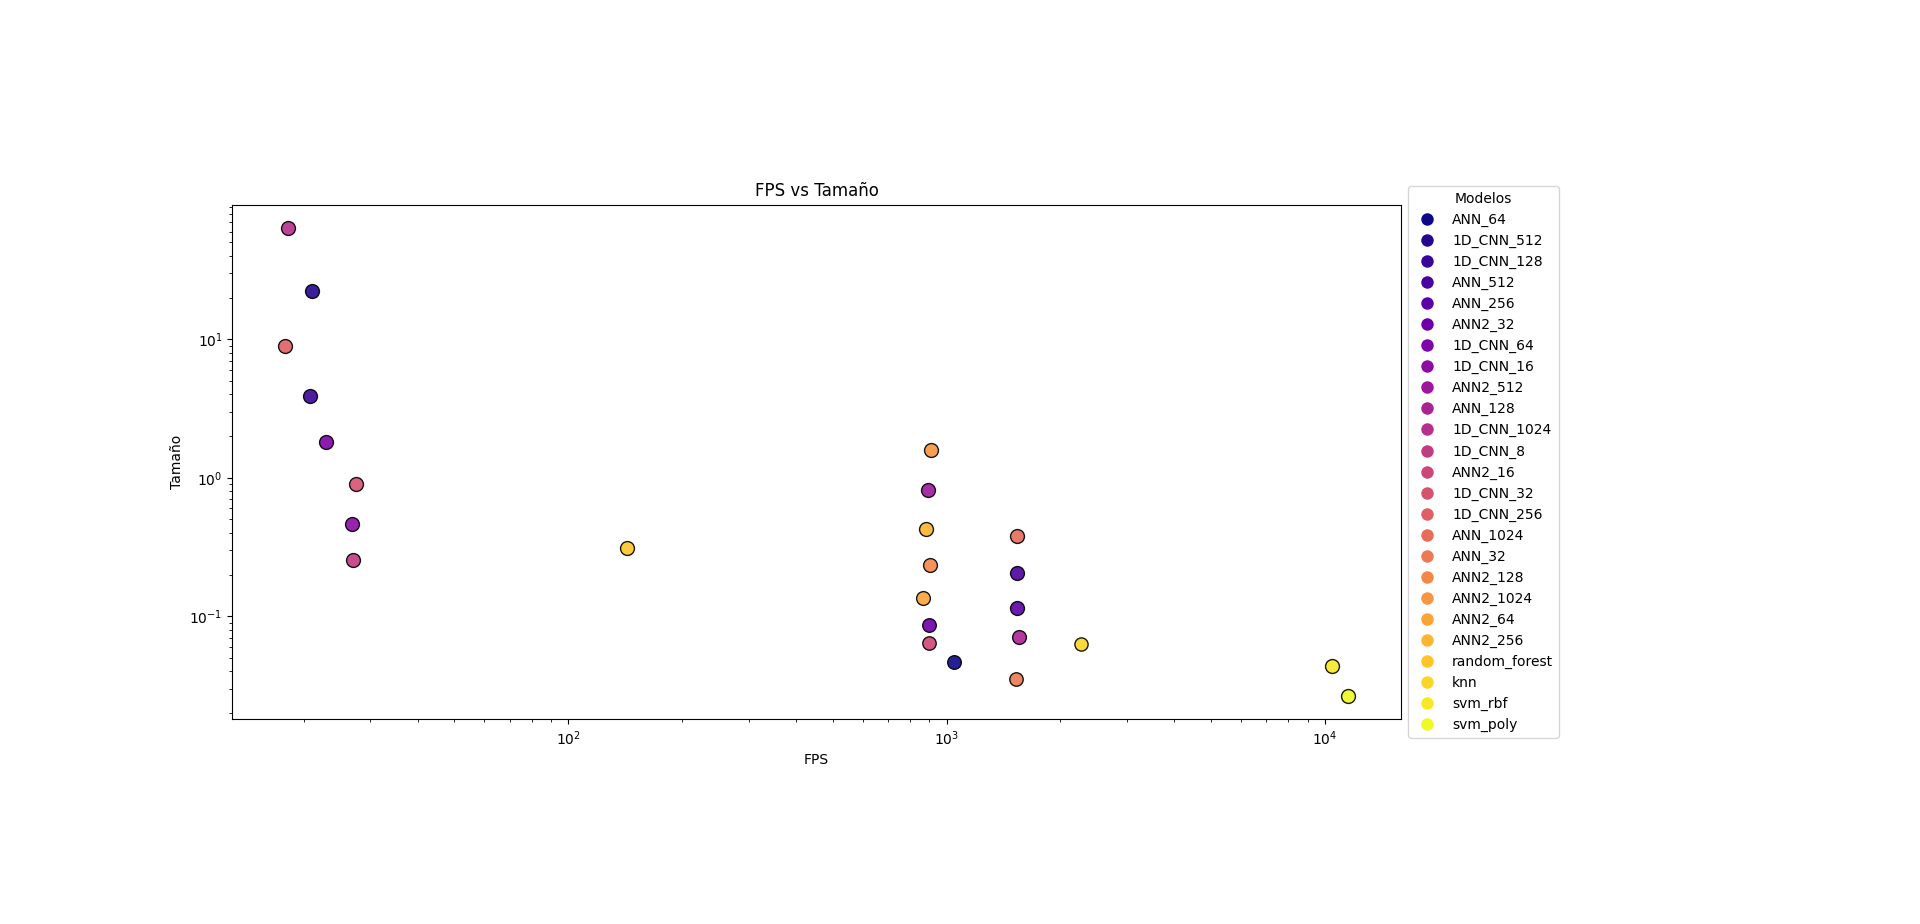
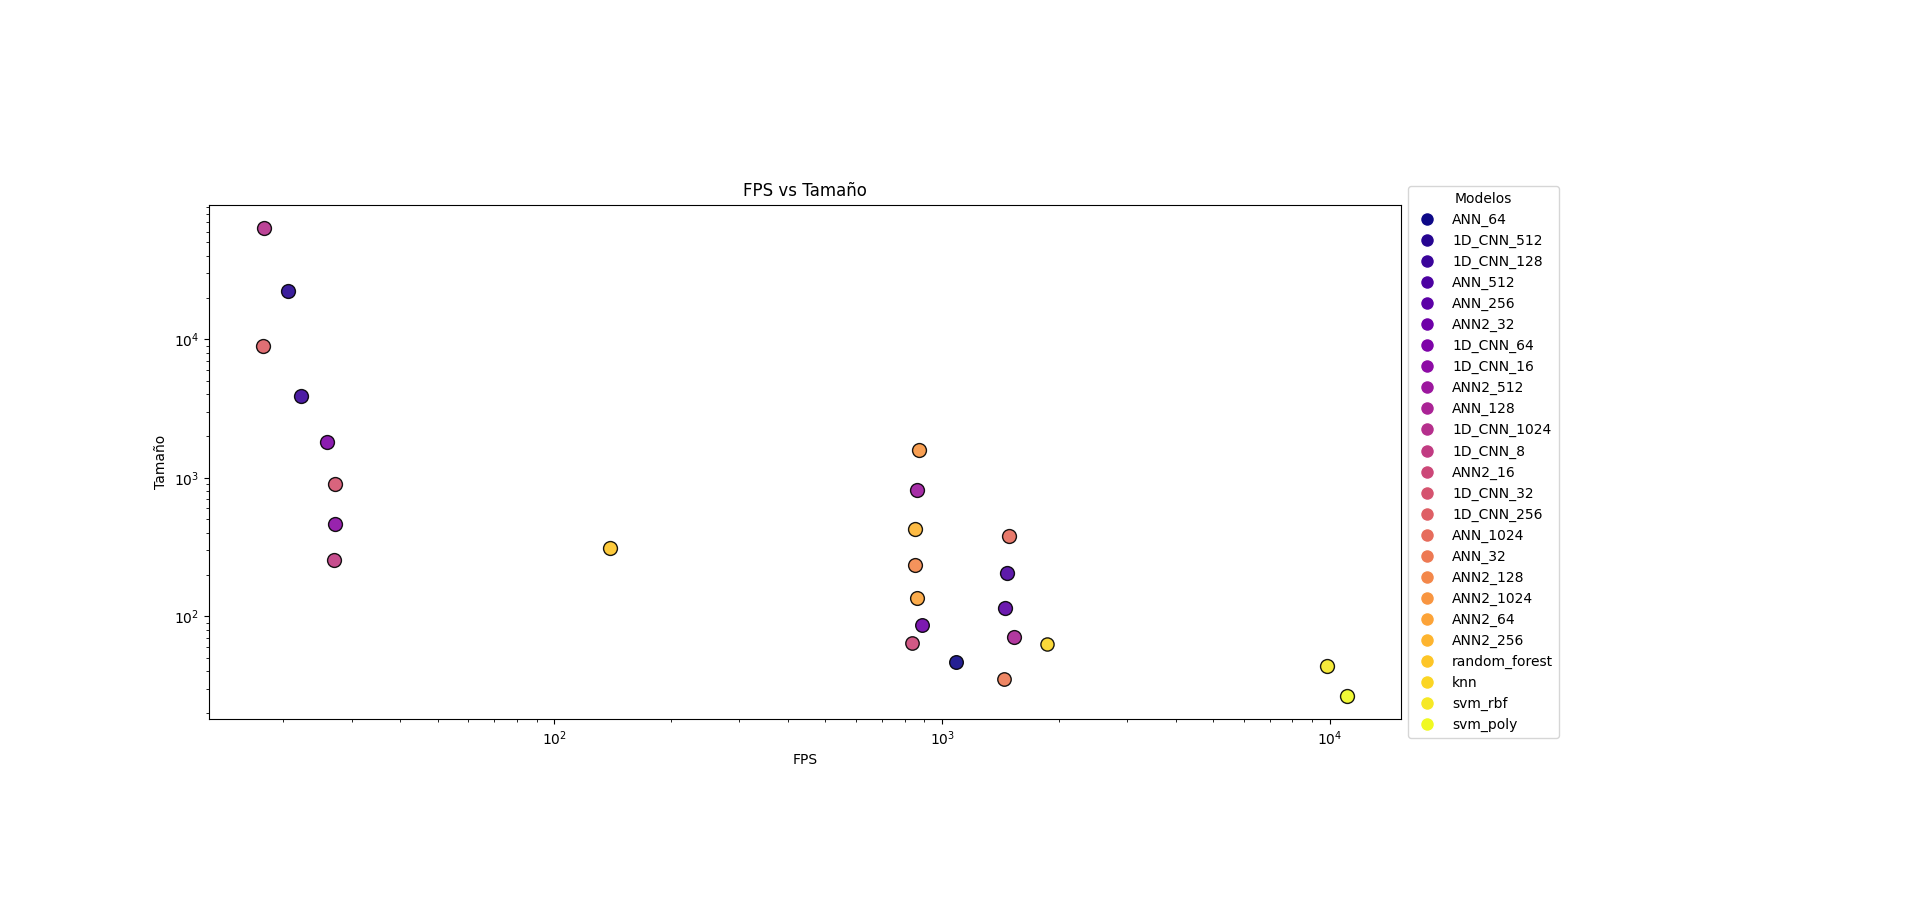
u

diff --git a/scripts/evaluar_modelos.py b/scripts/evaluar_modelos.py
@@ -106,7 +106,7 @@ for i in archivos_joblib:
 
 tamaños_10=[]
 for i in tamaños:
-    tamaños_10.append(i/1000000)
+    tamaños_10.append(i/1000)
 
 precisiones_10=[]
 for i in precisiones:
